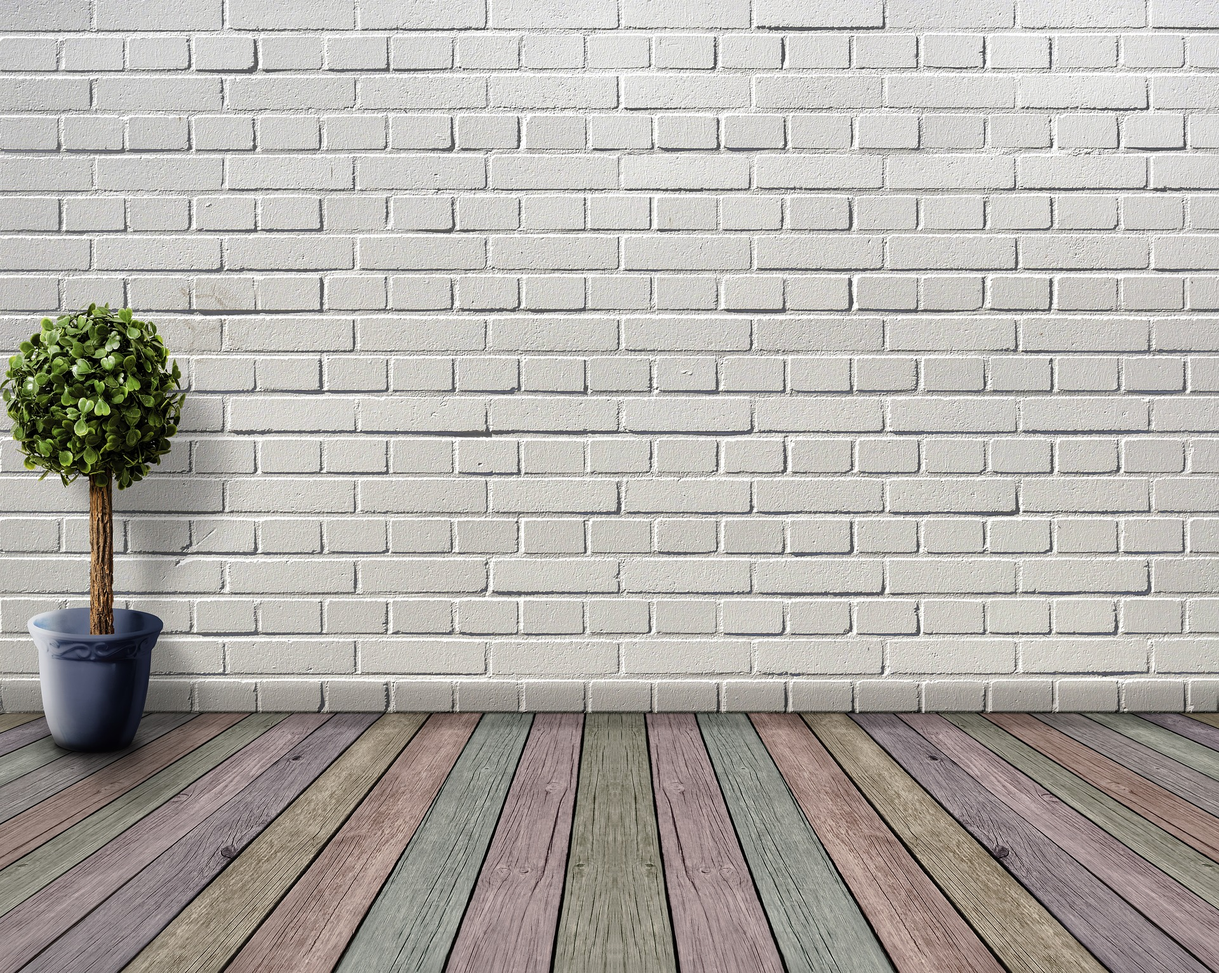
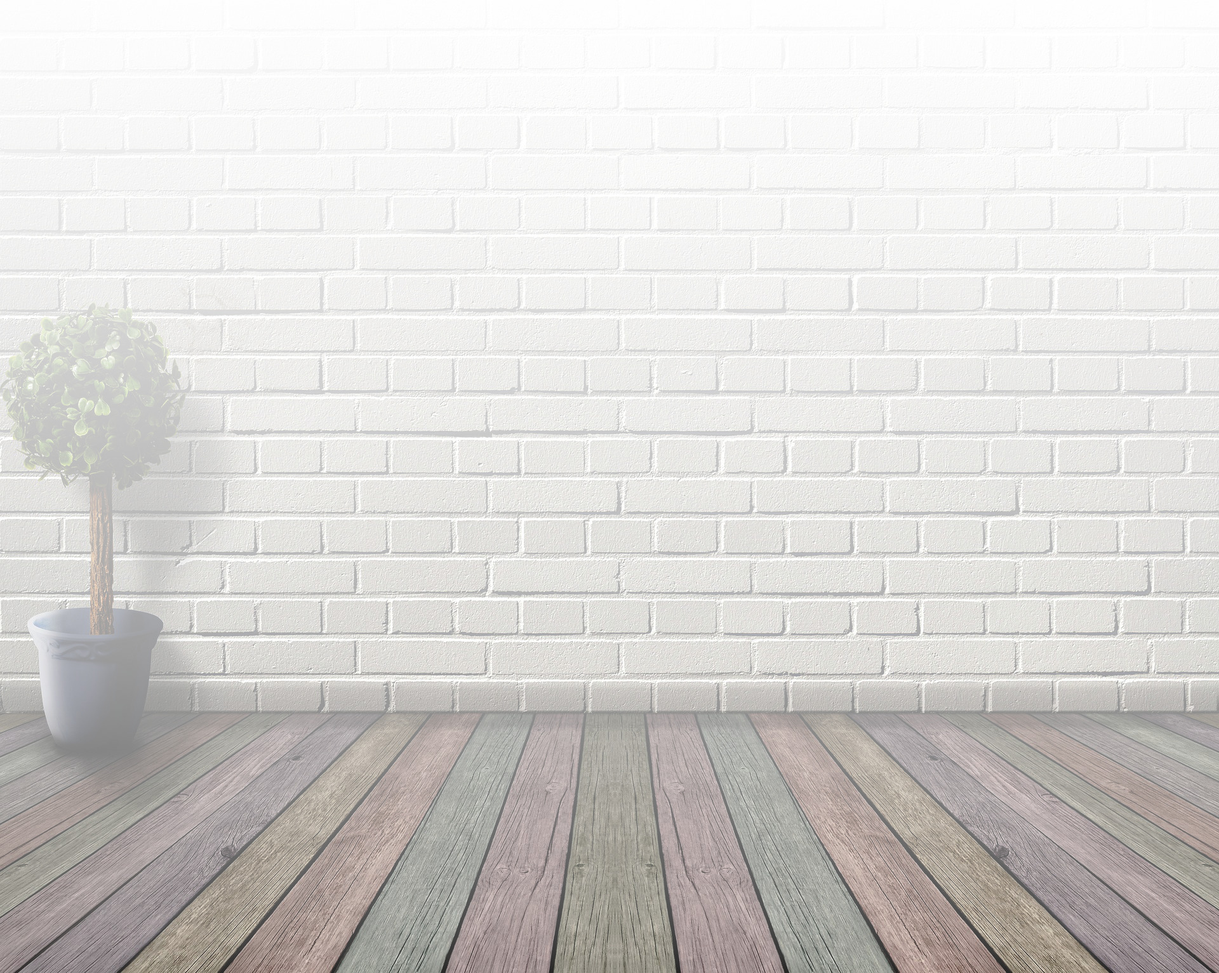
Update services page hero opacity

diff --git a/experimental/services.html b/experimental/services.html
@@ -69,6 +69,23 @@
     }
     </script>
     <!-- endinject -->
+    <!-- Facebook Pixel Code -->
+<script>
+  !function(f,b,e,v,n,t,s)
+  {if(f.fbq)return;n=f.fbq=function(){n.callMethod?
+  n.callMethod.apply(n,arguments):n.queue.push(arguments)};
+  if(!f._fbq)f._fbq=n;n.push=n;n.loaded=!0;n.version='2.0';
+  n.queue=[];t=b.createElement(e);t.async=!0;
+  t.src=v;s=b.getElementsByTagName(e)[0];
+  s.parentNode.insertBefore(t,s)}(window, document,'script',
+  'https://connect.facebook.net/en_US/fbevents.js');
+  fbq('init', '398179160960511');
+  fbq('track', 'PageView');
+</script>
+<noscript><img height="1" width="1" style="display:none"
+  src="https://www.facebook.com/tr?id=398179160960511&ev=PageView&noscript=1"
+/></noscript>
+<!-- End Facebook Pixel Code -->
 </head>
 
 <body>
@@ -96,7 +113,7 @@
     </header>
     <!-- /header -->
     <div class="servicepage-hero">
-        <div id="services-hero" class=" js-lazy hero-bk-holder" style="background-image:url(resources/images/checklist-hero.jpg);">
+        <div id="services-hero" class=" js-lazy hero-bk-holder" style="background-image:url(resources/images/checklist-hero.jpg);" align="top">
             <h1>House Cleaning Checklist</h1>
         </div>
     </div>

diff --git a/experimental/booknow.html b/experimental/booknow.html
@@ -50,6 +50,23 @@
     <script src="resources/js/price-quote.js">
     </script>
     <!-- endinject -->
+    <!-- Facebook Pixel Code -->
+<script>
+  !function(f,b,e,v,n,t,s)
+  {if(f.fbq)return;n=f.fbq=function(){n.callMethod?
+  n.callMethod.apply(n,arguments):n.queue.push(arguments)};
+  if(!f._fbq)f._fbq=n;n.push=n;n.loaded=!0;n.version='2.0';
+  n.queue=[];t=b.createElement(e);t.async=!0;
+  t.src=v;s=b.getElementsByTagName(e)[0];
+  s.parentNode.insertBefore(t,s)}(window, document,'script',
+  'https://connect.facebook.net/en_US/fbevents.js');
+  fbq('init', '398179160960511');
+  fbq('track', 'PageView');
+</script>
+<noscript><img height="1" width="1" style="display:none"
+  src="https://www.facebook.com/tr?id=398179160960511&ev=PageView&noscript=1"
+/></noscript>
+<!-- End Facebook Pixel Code -->
 </head>
 <header class="header clear">
         <div class="content">

diff --git a/production/booknow.html b/production/booknow.html
@@ -50,6 +50,23 @@
     <script src="resources/js/price-quote.js">
     </script>
     <!-- endinject -->
+    <!-- Facebook Pixel Code -->
+<script>
+  !function(f,b,e,v,n,t,s)
+  {if(f.fbq)return;n=f.fbq=function(){n.callMethod?
+  n.callMethod.apply(n,arguments):n.queue.push(arguments)};
+  if(!f._fbq)f._fbq=n;n.push=n;n.loaded=!0;n.version='2.0';
+  n.queue=[];t=b.createElement(e);t.async=!0;
+  t.src=v;s=b.getElementsByTagName(e)[0];
+  s.parentNode.insertBefore(t,s)}(window, document,'script',
+  'https://connect.facebook.net/en_US/fbevents.js');
+  fbq('init', '398179160960511');
+  fbq('track', 'PageView');
+</script>
+<noscript><img height="1" width="1" style="display:none"
+  src="https://www.facebook.com/tr?id=398179160960511&ev=PageView&noscript=1"
+/></noscript>
+<!-- End Facebook Pixel Code -->
 </head>
 <header class="header clear">
         <div class="content">

diff --git a/staging/booknow.html b/staging/booknow.html
@@ -50,6 +50,23 @@
     <script src="resources/js/price-quote.js">
     </script>
     <!-- endinject -->
+    <!-- Facebook Pixel Code -->
+<script>
+  !function(f,b,e,v,n,t,s)
+  {if(f.fbq)return;n=f.fbq=function(){n.callMethod?
+  n.callMethod.apply(n,arguments):n.queue.push(arguments)};
+  if(!f._fbq)f._fbq=n;n.push=n;n.loaded=!0;n.version='2.0';
+  n.queue=[];t=b.createElement(e);t.async=!0;
+  t.src=v;s=b.getElementsByTagName(e)[0];
+  s.parentNode.insertBefore(t,s)}(window, document,'script',
+  'https://connect.facebook.net/en_US/fbevents.js');
+  fbq('init', '398179160960511');
+  fbq('track', 'PageView');
+</script>
+<noscript><img height="1" width="1" style="display:none"
+  src="https://www.facebook.com/tr?id=398179160960511&ev=PageView&noscript=1"
+/></noscript>
+<!-- End Facebook Pixel Code -->
 </head>
 <header class="header clear">
         <div class="content">

diff --git a/experimental/faq.html b/experimental/faq.html
@@ -36,7 +36,25 @@
     <!-- inject:css -->
     <link rel="stylesheet" href="resources/css/main.css">
     <!-- endinject -->
-    <!--inject:js-->
+    <!-- Facebook Pixel Code -->
+<script>
+  !function(f,b,e,v,n,t,s)
+  {if(f.fbq)return;n=f.fbq=function(){n.callMethod?
+  n.callMethod.apply(n,arguments):n.queue.push(arguments)};
+  if(!f._fbq)f._fbq=n;n.push=n;n.loaded=!0;n.version='2.0';
+  n.queue=[];t=b.createElement(e);t.async=!0;
+  t.src=v;s=b.getElementsByTagName(e)[0];
+  s.parentNode.insertBefore(t,s)}(window, document,'script',
+  'https://connect.facebook.net/en_US/fbevents.js');
+  fbq('init', '398179160960511');
+  fbq('track', 'PageView');
+</script>
+<noscript><img height="1" width="1" style="display:none"
+  src="https://www.facebook.com/tr?id=398179160960511&ev=PageView&noscript=1"
+/></noscript>
+<!-- End Facebook Pixel Code -->
+
+
 </head>
 
 <body>

diff --git a/production/faq.html b/production/faq.html
@@ -36,7 +36,25 @@
     <!-- inject:css -->
     <link rel="stylesheet" href="resources/css/main.css">
     <!-- endinject -->
-    <!--inject:js-->
+    <!-- Facebook Pixel Code -->
+<script>
+  !function(f,b,e,v,n,t,s)
+  {if(f.fbq)return;n=f.fbq=function(){n.callMethod?
+  n.callMethod.apply(n,arguments):n.queue.push(arguments)};
+  if(!f._fbq)f._fbq=n;n.push=n;n.loaded=!0;n.version='2.0';
+  n.queue=[];t=b.createElement(e);t.async=!0;
+  t.src=v;s=b.getElementsByTagName(e)[0];
+  s.parentNode.insertBefore(t,s)}(window, document,'script',
+  'https://connect.facebook.net/en_US/fbevents.js');
+  fbq('init', '398179160960511');
+  fbq('track', 'PageView');
+</script>
+<noscript><img height="1" width="1" style="display:none"
+  src="https://www.facebook.com/tr?id=398179160960511&ev=PageView&noscript=1"
+/></noscript>
+<!-- End Facebook Pixel Code -->
+
+
 </head>
 
 <body>

diff --git a/staging/faq.html b/staging/faq.html
@@ -36,7 +36,25 @@
     <!-- inject:css -->
     <link rel="stylesheet" href="resources/css/main.css">
     <!-- endinject -->
-    <!--inject:js-->
+    <!-- Facebook Pixel Code -->
+<script>
+  !function(f,b,e,v,n,t,s)
+  {if(f.fbq)return;n=f.fbq=function(){n.callMethod?
+  n.callMethod.apply(n,arguments):n.queue.push(arguments)};
+  if(!f._fbq)f._fbq=n;n.push=n;n.loaded=!0;n.version='2.0';
+  n.queue=[];t=b.createElement(e);t.async=!0;
+  t.src=v;s=b.getElementsByTagName(e)[0];
+  s.parentNode.insertBefore(t,s)}(window, document,'script',
+  'https://connect.facebook.net/en_US/fbevents.js');
+  fbq('init', '398179160960511');
+  fbq('track', 'PageView');
+</script>
+<noscript><img height="1" width="1" style="display:none"
+  src="https://www.facebook.com/tr?id=398179160960511&ev=PageView&noscript=1"
+/></noscript>
+<!-- End Facebook Pixel Code -->
+
+
 </head>
 
 <body>

diff --git a/experimental/index.html b/experimental/index.html
@@ -42,6 +42,23 @@
     <script src="resources/js/price-quote.js">
     </script>
     <!-- endinject -->
+    <!-- Facebook Pixel Code -->
+<script>
+  !function(f,b,e,v,n,t,s)
+  {if(f.fbq)return;n=f.fbq=function(){n.callMethod?
+  n.callMethod.apply(n,arguments):n.queue.push(arguments)};
+  if(!f._fbq)f._fbq=n;n.push=n;n.loaded=!0;n.version='2.0';
+  n.queue=[];t=b.createElement(e);t.async=!0;
+  t.src=v;s=b.getElementsByTagName(e)[0];
+  s.parentNode.insertBefore(t,s)}(window, document,'script',
+  'https://connect.facebook.net/en_US/fbevents.js');
+  fbq('init', '398179160960511');
+  fbq('track', 'PageView');
+</script>
+<noscript><img height="1" width="1" style="display:none"
+  src="https://www.facebook.com/tr?id=398179160960511&ev=PageView&noscript=1"
+/></noscript>
+<!-- End Facebook Pixel Code -->
 </head>
 
 <body onload="defaultButtonText()">

diff --git a/production/index.html b/production/index.html
@@ -42,6 +42,23 @@
     <script src="resources/js/price-quote.js">
     </script>
     <!-- endinject -->
+    <!-- Facebook Pixel Code -->
+<script>
+  !function(f,b,e,v,n,t,s)
+  {if(f.fbq)return;n=f.fbq=function(){n.callMethod?
+  n.callMethod.apply(n,arguments):n.queue.push(arguments)};
+  if(!f._fbq)f._fbq=n;n.push=n;n.loaded=!0;n.version='2.0';
+  n.queue=[];t=b.createElement(e);t.async=!0;
+  t.src=v;s=b.getElementsByTagName(e)[0];
+  s.parentNode.insertBefore(t,s)}(window, document,'script',
+  'https://connect.facebook.net/en_US/fbevents.js');
+  fbq('init', '398179160960511');
+  fbq('track', 'PageView');
+</script>
+<noscript><img height="1" width="1" style="display:none"
+  src="https://www.facebook.com/tr?id=398179160960511&ev=PageView&noscript=1"
+/></noscript>
+<!-- End Facebook Pixel Code -->
 </head>
 
 <body onload="defaultButtonText()">

diff --git a/staging/index.html b/staging/index.html
@@ -42,6 +42,23 @@
     <script src="resources/js/price-quote.js">
     </script>
     <!-- endinject -->
+    <!-- Facebook Pixel Code -->
+<script>
+  !function(f,b,e,v,n,t,s)
+  {if(f.fbq)return;n=f.fbq=function(){n.callMethod?
+  n.callMethod.apply(n,arguments):n.queue.push(arguments)};
+  if(!f._fbq)f._fbq=n;n.push=n;n.loaded=!0;n.version='2.0';
+  n.queue=[];t=b.createElement(e);t.async=!0;
+  t.src=v;s=b.getElementsByTagName(e)[0];
+  s.parentNode.insertBefore(t,s)}(window, document,'script',
+  'https://connect.facebook.net/en_US/fbevents.js');
+  fbq('init', '398179160960511');
+  fbq('track', 'PageView');
+</script>
+<noscript><img height="1" width="1" style="display:none"
+  src="https://www.facebook.com/tr?id=398179160960511&ev=PageView&noscript=1"
+/></noscript>
+<!-- End Facebook Pixel Code -->
 </head>
 
 <body onload="defaultButtonText()">

diff --git a/production/services.html b/production/services.html
@@ -69,6 +69,23 @@
     }
     </script>
     <!-- endinject -->
+    <!-- Facebook Pixel Code -->
+<script>
+  !function(f,b,e,v,n,t,s)
+  {if(f.fbq)return;n=f.fbq=function(){n.callMethod?
+  n.callMethod.apply(n,arguments):n.queue.push(arguments)};
+  if(!f._fbq)f._fbq=n;n.push=n;n.loaded=!0;n.version='2.0';
+  n.queue=[];t=b.createElement(e);t.async=!0;
+  t.src=v;s=b.getElementsByTagName(e)[0];
+  s.parentNode.insertBefore(t,s)}(window, document,'script',
+  'https://connect.facebook.net/en_US/fbevents.js');
+  fbq('init', '398179160960511');
+  fbq('track', 'PageView');
+</script>
+<noscript><img height="1" width="1" style="display:none"
+  src="https://www.facebook.com/tr?id=398179160960511&ev=PageView&noscript=1"
+/></noscript>
+<!-- End Facebook Pixel Code -->
 </head>
 
 <body>

diff --git a/staging/services.html b/staging/services.html
@@ -69,6 +69,23 @@
     }
     </script>
     <!-- endinject -->
+    <!-- Facebook Pixel Code -->
+<script>
+  !function(f,b,e,v,n,t,s)
+  {if(f.fbq)return;n=f.fbq=function(){n.callMethod?
+  n.callMethod.apply(n,arguments):n.queue.push(arguments)};
+  if(!f._fbq)f._fbq=n;n.push=n;n.loaded=!0;n.version='2.0';
+  n.queue=[];t=b.createElement(e);t.async=!0;
+  t.src=v;s=b.getElementsByTagName(e)[0];
+  s.parentNode.insertBefore(t,s)}(window, document,'script',
+  'https://connect.facebook.net/en_US/fbevents.js');
+  fbq('init', '398179160960511');
+  fbq('track', 'PageView');
+</script>
+<noscript><img height="1" width="1" style="display:none"
+  src="https://www.facebook.com/tr?id=398179160960511&ev=PageView&noscript=1"
+/></noscript>
+<!-- End Facebook Pixel Code -->
 </head>
 
 <body>
